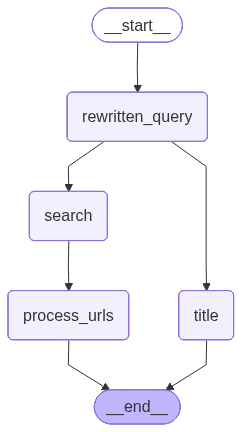
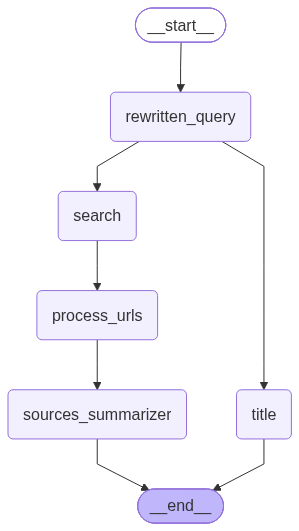
refactor: enhance crawler configuration and improve error handling in web loading

Changed region(s): [[0.0, 0.0, 0.9835, 0.9931], [0.5207, 0.5417, 0.5496, 0.6319], [0.376, 0.0301, 0.405, 0.0903]]

diff --git a/graph/ingestion_graph/nodes/process_urls_node.py b/graph/ingestion_graph/nodes/process_urls_node.py
@@ -16,7 +16,7 @@ async def process_urls_node(state: GraphState):
 
     with tracer.start_as_current_span("Processing URLs"):
 
-        # await crawler.start()
+        await crawler.start()
 
         result = await asyncio.gather(
             *[
@@ -35,8 +35,7 @@ async def process_urls_node(state: GraphState):
             return_exceptions=True,
         )
 
-        # await crawler.close()
-        print("URLs Processed...")
+        await crawler.close()
         saved_urls = []
         titles = []
 
@@ -63,7 +62,6 @@ async def process_urls_node(state: GraphState):
             cleanup_ingestion(state["conversation_id"],state["query"])
         )
 
-        print("Titles: ", titles)
 
         return {
             "titles": titles,

diff --git a/graph/ingestion_graph/nodes/source_summary_node.py b/graph/ingestion_graph/nodes/source_summary_node.py
@@ -11,14 +11,13 @@ from telemetry.instrumentation import tracer
 
 
 async def source_summary_node(state: GraphState):
-    print("State Title: ", state["titles"])
 
     with tracer.start_as_current_span("Source Summary"):
         source_summarizer = get_sources_summary_agent()
 
-        source_summary = await source_summarizer.ainvoke({
-            "messages": [{"role": "user", "content": json.dumps({"sources": state["titles"]})}]
-        })
+        source_summary = await retry_async(
+            lambda: source_summarizer.ainvoke({"messages": [{"role": "user", "content": json.dumps({"sources": state["titles"]})}]})
+        )
 
         source_summary_data = parse_agent_json(source_summary["messages"][-1].content)
 

diff --git a/helper/web_loader.py b/helper/web_loader.py
@@ -3,6 +3,8 @@ import re
 import httpx
 from bs4 import BeautifulSoup
 
+from config.crawl4ai_config import crawler, run_config
+
 
 async def web_loader_tool(link: str):
     """Fetch and extract clean text content from a given URL."""
@@ -19,4 +21,12 @@ async def web_loader_tool(link: str):
         return clean_text
 
     except Exception as e:
-        return f"ERROR: failed to load {link} - {str(e)}"
+        try:
+            print(f"BeautifulSoup failed for {link}. Falling back to Crawl4AI...")
+
+            result = await crawler.arun(link, config=run_config)
+
+            return result.markdown
+
+        except Exception as e:
+            return f"ERROR: failed to load {link} - {str(e)}"

diff --git a/helper/load_page.py b/helper/load_page.py
@@ -5,12 +5,11 @@ async def load_page(page: dict) -> dict:
     """Load a single page's content — called in parallel for all pages."""
     try:
         content = await web_loader_tool(page["url"])
-        if not content:
+        if not content or content.startswith("ERROR:"):
             return None
-
-        if content.startswith("ERROR:"):
-            return None
+        
         return {**page, "raw_content": content}
+    
     except Exception as e:
         print(f"Failed to load {page['url']}: {e}")
         return None

diff --git a/tools/content_scraper_tool.py b/tools/content_scraper_tool.py
@@ -5,11 +5,8 @@ from mcp_setup.tool_registry import get_tool_by_name
 
 
 async def search_urls(query: str) -> list[dict]:
-    print("Searching for URLs...")
     search_tool = await get_tool_by_name("search_engine")
-    print("Search Engine Loaded...")
     result = await search_tool.ainvoke({"query": query})
-    print("Search Complete...")
 
     raw_text = result[0]["text"]
     data = json.loads(raw_text)

diff --git a/graph/ingestion_graph/nodes/scrape_urls_node.py b/graph/ingestion_graph/nodes/scrape_urls_node.py
@@ -24,11 +24,7 @@ async def search_node(state: GraphState):
                 lambda: content_scraper_agent.ainvoke({"messages": [{"role": "user", "content": json.dumps({"query": state["rewritten_query"]})}]})
             )
 
-            print(result)
-
             data = parse_agent_json(result["messages"][-1].content)
-
-        print(data["pages"])
 
         await event_bus.publish(
             Event(

diff --git a/config/crawl4ai_config.py b/config/crawl4ai_config.py
@@ -26,7 +26,14 @@ markdown_generator = DefaultMarkdownGenerator(
 )
 
 run_config = CrawlerRunConfig(
-    markdown_generator=markdown_generator
+    markdown_generator=markdown_generator,
+    excluded_tags=[
+        "script",
+        "style",
+        "nav",
+        "footer",
+        "header",
+    ]
 )
 
 crawler = AsyncWebCrawler()

diff --git a/mcp_setup/mcp_client.py b/mcp_setup/mcp_client.py
@@ -10,8 +10,6 @@ async def get_all_mcp_tools():
     if _tools_cache is not None:
         return _tools_cache
     
-    print("Getting Tools Ready...")
-
     _client = MultiServerMCPClient(
         {
             "bright_data": {
